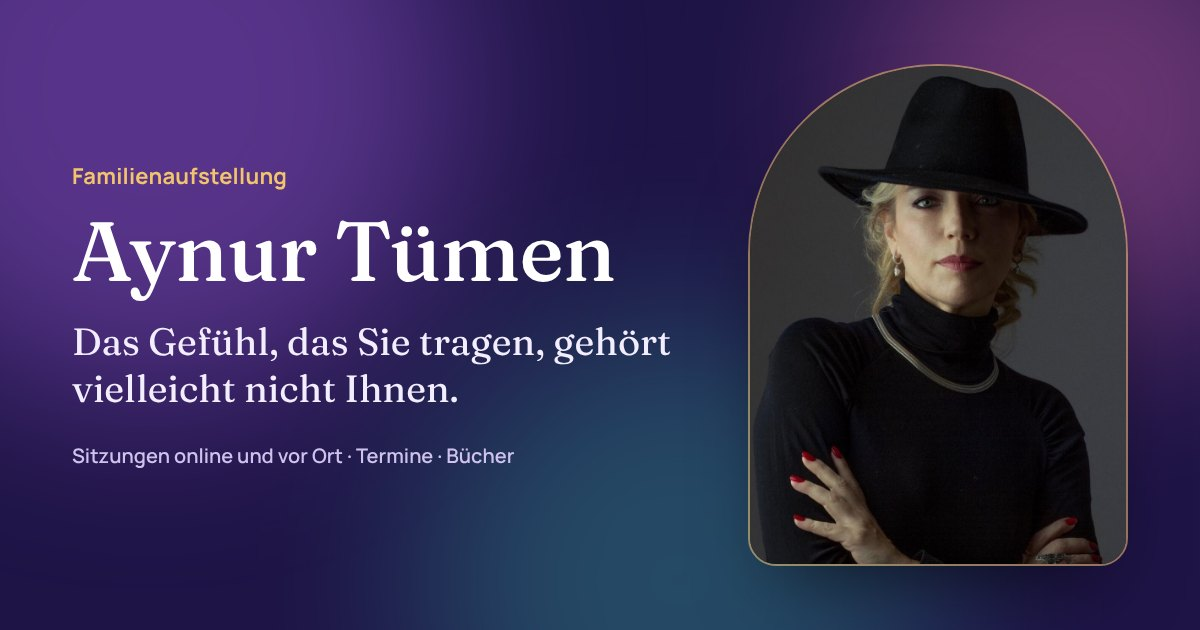
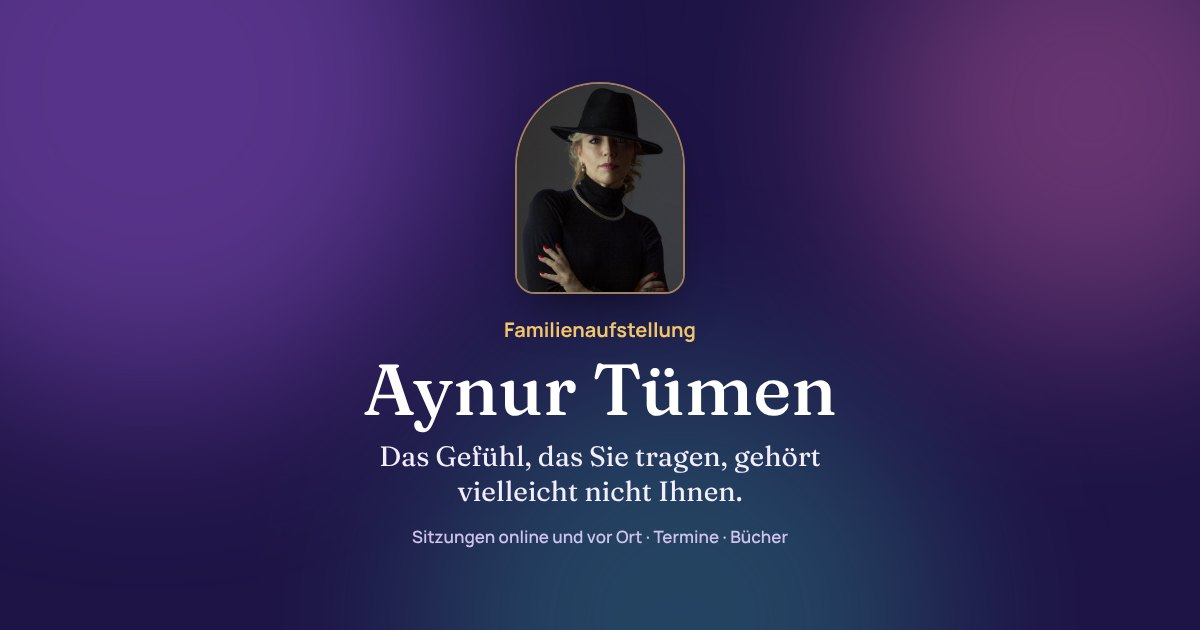
Paylasim gorselleri: yazilar ortada, WhatsApp kirpinca kesilmesin (4 dil)

diff --git a/app/views/layout.php b/app/views/layout.php
@@ -43,7 +43,7 @@ function layout(array $o): string {
   $year = date('Y');
   $clientJs = $client && $L !== 'tr' ? '<script>window.I18N=' . str_replace('<', '\\u003c', js_json((object)I18n::clientDict($L))) . '</script><script src="/js/i18n.js?v=' . $V . '" defer></script>' : '';
   $canon = esc($site . I18n::prefix($self, $L));
-  $img = esc("$site/images/paylasim-$L.jpg");
+  $img = esc("$site/images/paylasim-$L.jpg?v=2");
   return <<<HTML
 <!doctype html>
 <html lang="$L">
